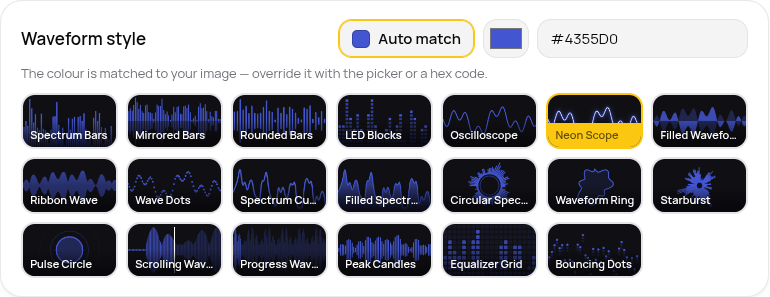
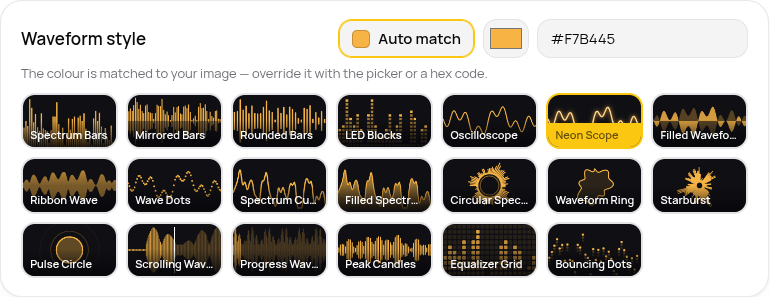
Show Waveframe in its own colour in every screenshot
The demo background for the screenshots was a navy-to-pink gradient, so
Auto match sampled it and rendered the waveform and all twenty style
thumbnails in blue - the app looked like it was themed in whatever colour
the sample image happened to be. The backdrop is now a dark navy-to-amber
gradient, so Auto match lands on Waveframe's own yellow with the feature
still visibly doing its job, and the waveform still reads clearly against
it.

Screenshots in docs/shots and the website images are rebuilt from it.

diff --git a/scripts/screenshots.js b/scripts/screenshots.js
@@ -23,7 +23,9 @@ const FFMPEG = require('ffmpeg-static');
   if (!fs.existsSync(shotBg)) {
     execFileSync(FFMPEG, ['-hide_banner', '-loglevel', 'error', '-y',
       '-f', 'lavfi', '-i',
-      'gradients=s=2560x1440:n=3:c0=0x111827:c1=0x3D51B4:c2=0xE8207E:x0=200:y0=1300:x1=2400:y1=140:d=1',
+      // A warm, on-brand backdrop: Auto match then lands on Waveframe's own
+      // yellow rather than on a colour borrowed from an unrelated image.
+      'gradients=s=2560x1440:n=3:c0=0x0C1220:c1=0x3F2A07:c2=0xB8800C:x0=200:y0=1300:x1=2400:y1=140:d=1',
       '-frames:v', '1', shotBg]);
   }
   if (!fs.existsSync(shotAudio)) {
